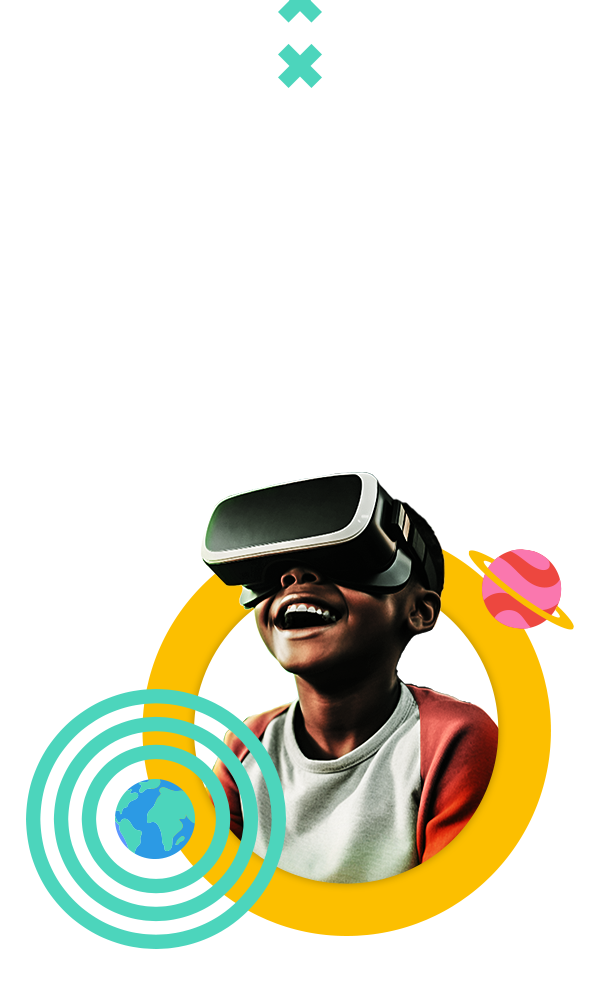
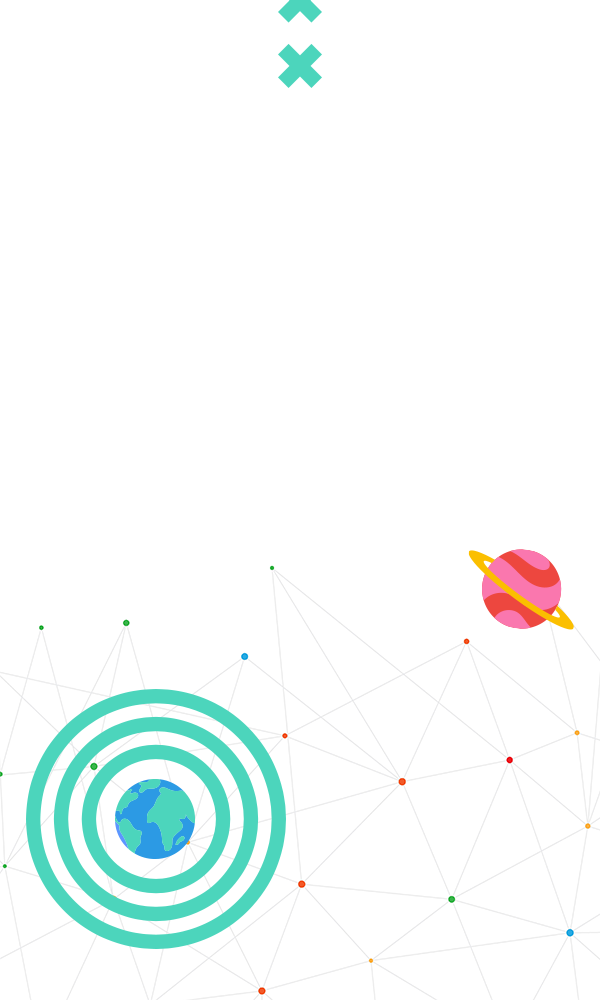
Fix: Latest changes

Changed region(s): [[0.24, 0.465, 0.93, 0.961], [0.42, 0.992, 0.45, 1.0]]

diff --git a/src/index.css b/src/index.css
@@ -1,65 +1,98 @@
-@import url('https://fonts.googleapis.com/css2?family=Inter:wght@100..900&display=swap');
-@import url('https://fonts.googleapis.com/css2?family=Raleway:ital,wght@0,100..900;1,100..900&display=swap');
+@import url("https://fonts.googleapis.com/css2?family=Inter:wght@100..900&display=swap");
+@import url("https://fonts.googleapis.com/css2?family=Raleway:ital,wght@0,100..900;1,100..900&display=swap");
 
 @tailwind base;
 @tailwind components;
 @tailwind utilities;
 
-
 *,
 *::before,
 *::after {
-    margin: 0;
-    padding: 0;
-    box-sizing: border-box;
+  margin: 0;
+  padding: 0;
+  box-sizing: border-box;
 }
 
 body {
-    @apply font-primary;
+  @apply font-primary;
 }
 
 .hero {
-    background: url('/src/assets/hero-image.png');
-    background-size: cover;
+  background: url("/src/assets/hero-bg.png");
+  background-size: 100%;
+  background-repeat: no-repeat;
 }
 
 @media screen and (max-width: 600px) {
-    .hero {
-        background: url('/src/assets/hero-mobile.png');
-        background-size: cover;
-    }
+  .hero {
+    background: url("/src/assets/hero-mobile.png");
+    background-size: 100%;
+  }
 }
 
-.slick-slide>div {
-    margin: 0 10px;
+.slick-slide > div {
+  margin: 0 10px;
 }
 
 .slick-list {
-    margin: 0 -30px;
+  margin: 0 -30px;
 }
 
 .bootcamp-hero {
-    background: linear-gradient(rgba(0, 0, 0, .75), rgba(0, 0, 0, .75)),url('/src/assets/summer-img.jpg');
-    background-size: cover;
-    background-position: center;
+  background: linear-gradient(rgba(0, 0, 0, 0.75), rgba(0, 0, 0, 0.75)),
+    url("/src/assets/summer-img.jpg");
+  background-size: cover;
+  background-position: center;
 }
 
+.bounce-image {
+  animation: floatImage 5s infinite ease-in-out;
+}
 
 /* Hide scrollbar for Chrome, Safari and Opera */
 .no-scrollbar::-webkit-scrollbar {
-    display: none;
+  display: none;
 }
 
 /* Hide scrollbar for IE, Edge and Firefox */
 .no-scrollbar {
-    -ms-overflow-style: none;  /* IE and Edge */
-    scrollbar-width: none;  /* Firefox */
+  -ms-overflow-style: none; /* IE and Edge */
+  scrollbar-width: none; /* Firefox */
 }
 
 input[type="radio"] {
-    @apply checked:bg-primary text-primary checked:ring-primary;
+  @apply checked:bg-primary text-primary checked:ring-primary;
 }
 
-input[type="text"], input[type="number"], input[type="email"], select, textarea {
-    @apply border rounded-lg focus:border-primary focus:outline-none focus:ring-0;
+input[type="text"],
+input[type="number"],
+input[type="email"],
+select,
+textarea {
+  @apply border rounded-lg focus:border-primary focus:outline-none focus:ring-0;
+}
+
+@media (min-width: 1280px) {
+  .container {
+    @apply max-w-full mx-auto;
+  }
+}
+
+@media (min-width: 1536px) {
+  .container {
+    @apply max-w-[1440px] mx-auto px-6;
+  }
+}
+
+/* ANIMATION */
+@keyframes floatImage {
+  0% {
+    transform: translateY(0);
+  }
+  50% {
+    transform: translateY(-50px);
+  }
+  100% {
+    transform: translateY(0);
+  }
 }

diff --git a/src/App.jsx b/src/App.jsx
@@ -8,8 +8,10 @@ import {
 import ReactGA from "react-ga4";
 import Nav from "./components/Nav";
 import Home from "./pages/Home";
-import Bootcamp from "./pages/Bootcamp";
+// import Bootcamp from "./pages/Bootcamp";
+// import Register from "./pages/Register";
 import Footer from "./components/Footer";
+import Register from "./pages/Register";
 
 ReactGA.initialize("G-TMLPEYRV71");
 
@@ -35,7 +37,8 @@ const App = () => {
         <Nav />
         <Routes>
           <Route path="/" element={<Home />} />
-          <Route path="/summerbootcamp" element={<BootcampPage />} />
+          {/* <Route path="/summerbootcamp" element={<BootcampPage />} /> */}
+          <Route path="/register" element={<RegistrationPage />} />
         </Routes>
         <Footer />
       </PageTrackingWrapper>
@@ -52,7 +55,8 @@ const trackFormInteraction = () => {
   ReactGA.event({
     category: "Form",
     action: "Interacted with Registration Form",
-    label: "Summer Bootcamp Registration",
+    label: "Class Registration",
+    // label: "Summer Bootcamp Registration",
   });
 };
 
@@ -60,13 +64,23 @@ const trackFormSubmission = () => {
   ReactGA.event({
     category: "Form",
     action: "Submitted Registration Form",
-    label: "Summer Bootcamp Registration",
+    // label: "Summer Bootcamp Registration",
+    label: "Class Registration",
   });
 };
 
-const BootcampPage = () => {
+// const BootcampPage = () => {
+//   return (
+//     <Bootcamp
+//       onFormInteraction={trackFormInteraction}
+//       onFormSubmission={trackFormSubmission}
+//     />
+//   );
+// };
+
+const RegistrationPage = () => {
   return (
-    <Bootcamp
+    <Register
       onFormInteraction={trackFormInteraction}
       onFormSubmission={trackFormSubmission}
     />

diff --git a/src/components/Hero.jsx b/src/components/Hero.jsx
@@ -1,8 +1,9 @@
 import React from "react";
 import { Link } from "react-router-dom";
+import BoyIllustration from "../assets/boy.png";
 function Hero() {
   return (
-    <div className="hero h-screen w-full bg-cover flex flex-col md:justify-center">
+    <div className="h-screen w-full bg-cover flex flex-col md:justify-center relative container">
       <div className="lg:px-20 px-10">
         <div className="md:w-3/6 xl:w-2/5 w-full mb-5 pt-24 md:pt-0">
           <h1 className="font-title text-dark uppercase font-bold leading-[1.1] flex flex-col">
@@ -20,14 +21,19 @@ function Hero() {
           </p>
         </div>
         <Link
-          className="px-8 py-3 uppercase font-semibold text-xs rounded-full bg-primary text-light hover:shadow-md transition-all duration-500 ease-in-out hover:rounded-lg"
-          to="/summerbootcamp"
+          className="px-8 py-3 uppercase font-semibold text-xs rounded-full bg-primary text-light hover:shadow-md hover:scale-110 transition-all duration-300 ease-linear"
+          to="/register"
           // target="_blank"
           // to="https://docs.google.com/forms/d/e/1FAIpQLScgv-0ZAajAhevEJV4cBQ4ASqKqKUyW-McVFlj4_i2nCVu2dA/viewform"
         >
           Enrol
         </Link>
       </div>
+      <img
+        className="2xl:h-[750px] 2xl:-right-[25%] lg:h-[420px] h-[200px] absolute right-[10%] bottom-[5%] bounce-image"
+        src={BoyIllustration}
+        alt="illustration"
+      />
     </div>
   );
 }

diff --git a/src/components/Nav.jsx b/src/components/Nav.jsx
@@ -17,7 +17,7 @@ function Nav() {
       let windowHeight = window.scrollY;
       windowHeight > 500
         ? setStickyClass(
-            "fixed top-0 left-0 z-10 flex justify-between bg-white w-full shadow-md bg-opacity-90 backdrop-blur-md transition-all duration-500 ease-in-out"
+            "fixed top-0 left-0 z-10 flex justify-between bg-white w-full shadow-md bg-opacity-90 backdrop-blur-md transition-all duration-500 ease-in-out mx-auto"
           )
         : setStickyClass("relative");
     }
@@ -25,7 +25,7 @@ function Nav() {
 
   return (
     <div
-      className={`lg:px-20 px-10 py-2 flex justify-between items-center ${stickyClass}`}
+      className={`lg:px-20 px-10 py-2 flex justify-between items-center max-w-[1440px] container ${stickyClass}`}
     >
       <Link to="/">
         <img
@@ -35,10 +35,10 @@ function Nav() {
         />
       </Link>
       <Link
-        className="px-8 py-3 uppercase font-semibold text-xs rounded-full bg-primary text-light hover:shadow-md transition-all duration-500 ease-in-out hover:rounded-lg"
+        className="px-8 py-3 uppercase font-semibold text-xs rounded-full bg-primary text-light hover:shadow-md hover:scale-110 transition-all duration-300 ease-linear"
         //target="_blank"
         //to="https://docs.google.com/forms/d/e/1FAIpQLScgv-0ZAajAhevEJV4cBQ4ASqKqKUyW-McVFlj4_i2nCVu2dA/viewform"
-        to="/summerbootcamp"
+        to="/register"
       >
         Enrol
       </Link>

diff --git a/src/pages/Register.jsx b/src/pages/Register.jsx
@@ -1,0 +1,24 @@
+import BootcampForm from "../components/BootcampForm";
+import RegIllustration from "../assets/reg-illustration.png";
+
+function Register({ onFormInteraction, onFormSubmission }) {
+  return (
+    <div className="lg:py-20 lg:px-20 py-10 flex flex-col lg:flex-row justify-between items-center">
+      <div className="lg:w-3/6 w-full relative px-5 md:px-10 lg:mt-40 xl:mt-0 lg:border-r">
+        <h2 className="xl:text-4xl text-2xl uppercase mb-2 font-semibold">
+          Registration
+        </h2>
+        <p>Please fill the form to get started with our classes</p>
+        <img src={RegIllustration} alt="Illustration" />
+      </div>
+      <div className="lg:w-3/6 w-full text-center lg:text-left mt-10 md:mt-0 md:mb-0 mb-10 lg:mb-0 py-10 px-5 md:p-10 bg-slate-100">
+        <BootcampForm
+          onFormInteraction={onFormInteraction}
+          onFormSubmission={onFormSubmission}
+        />
+      </div>
+    </div>
+  );
+}
+
+export default Register;

diff --git a/src/components/Footer.jsx b/src/components/Footer.jsx
@@ -5,7 +5,7 @@ import Logo from "../assets/icon.svg";
 export default function Component() {
   return (
     <Footer container>
-      <div className="w-full px-5 lg:px-20 py-5 border-t mt-20">
+      <div className="w-full px-5 lg:px-20 py-5 border-t 2xl:border-t-0 mt-20 container">
         <div className="mb-5 flex gap-3 items-center font-semibold">
           <img src={Logo} alt="The Proxy Academy Logo" className="h-10" />
           <h5 className="uppercase font-title text-2xl">The Proxy Academy</h5>
@@ -27,7 +27,7 @@ export default function Component() {
             className="font-title"
             href="www.theproxyacademy.com"
             by=" The Proxy Academy Ltd."
-            year={2024}
+            year={2025}
           />
           <div className="mt-4 flex space-x-6 sm:mt-0 sm:justify-center">
             <Footer.Icon

diff --git a/src/pages/Home.jsx b/src/pages/Home.jsx
@@ -10,12 +10,16 @@ function Home() {
   return (
     <div>
       {/*<ProgrammeModal />*/}
-      <Hero />
-      {/*<Bootcamp />*/}
-      <WhyUs />
-      <OurProgrammes />
-      <Testimonials />
-      <Faqs />
+      <div className="hero">
+        <Hero />
+      </div>
+      <div className="container">
+        {/*<Bootcamp />*/}
+        <WhyUs />
+        <OurProgrammes />
+        <Testimonials />
+        <Faqs />
+      </div>
     </div>
   );
 }

diff --git a/src/components/Faqs.jsx b/src/components/Faqs.jsx
@@ -1,4 +1,3 @@
-import React from "react";
 import { Accordion } from "flowbite-react";
 
 function Faqs() {
